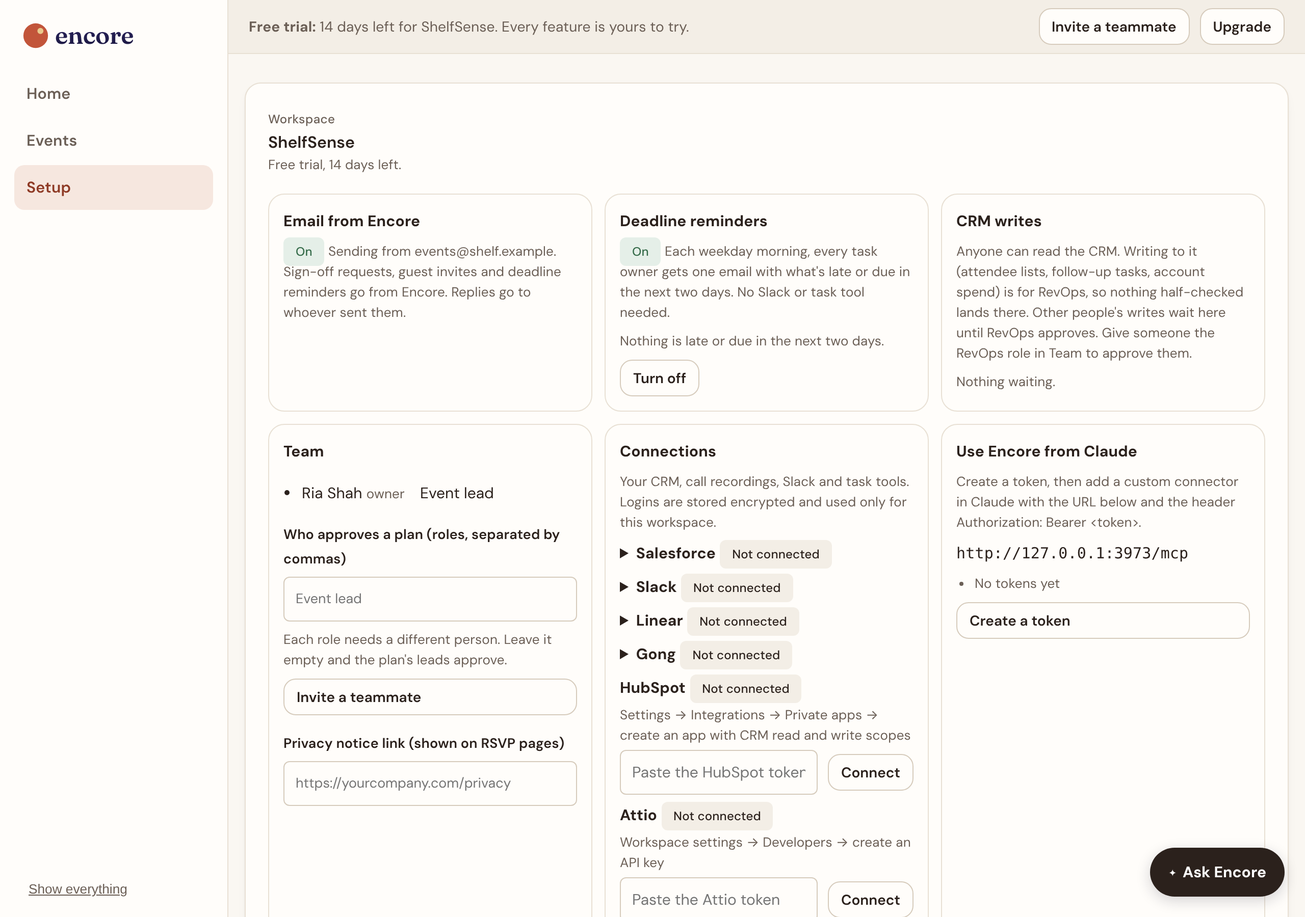
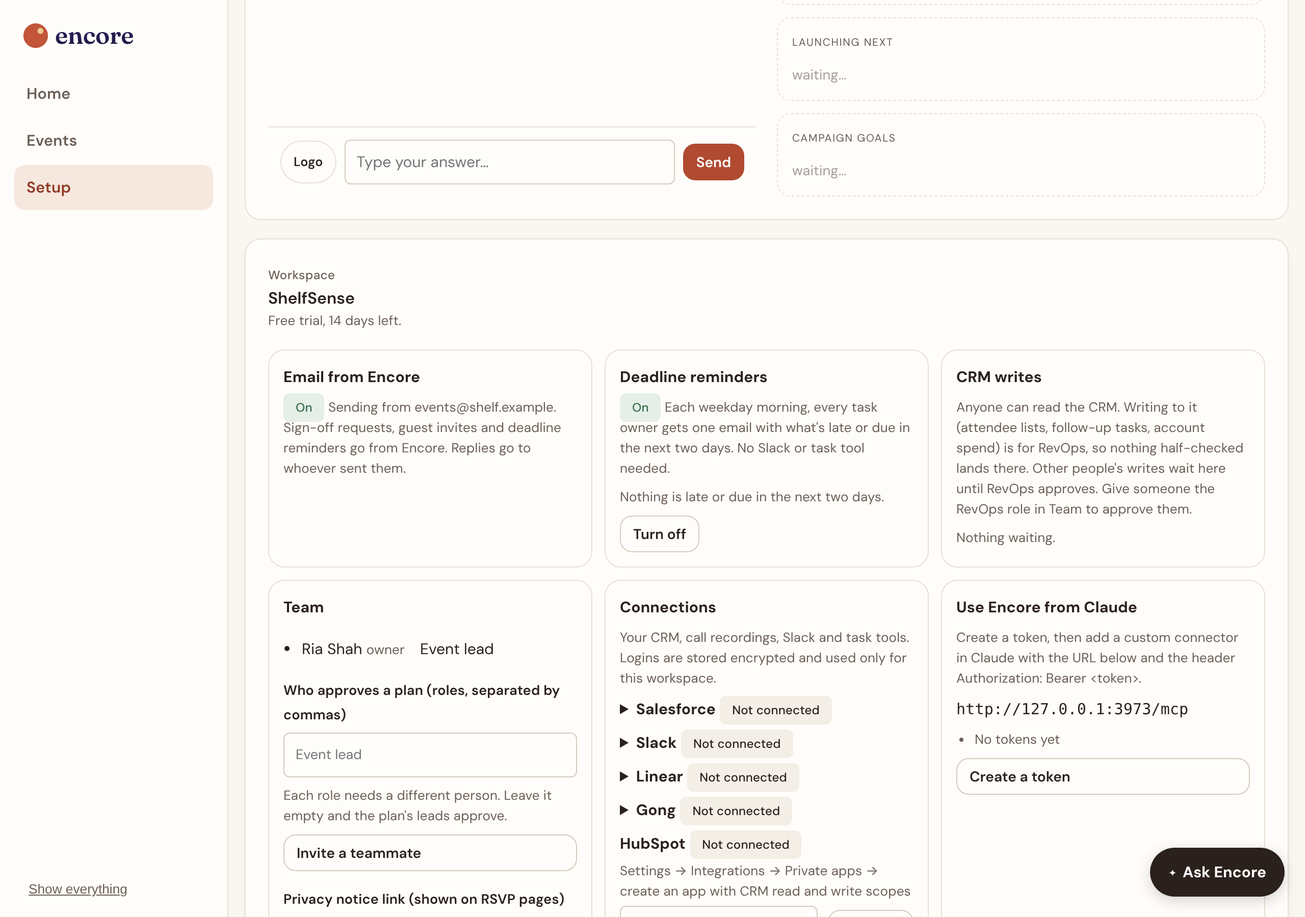
Brand kit setup, Ploy-style playbooks, smarter one-line drafts
- Setup opens on a brand kit that needs no AI: company, website, logo,
  primary and accent colors (picker, hex, swatches from the logo), heading
  and body fonts (Google Fonts list or an uploaded .woff2/.ttf/.otf),
  brand guidelines (colors read from images; fonts and voice via Claude
  when AI is on), voice line, and a live invitation preview. Changes save
  as you go and reach RSVP pages, covers and the guest pages. The research
  chat is optional below it.
- Plays show their playbook: author, numbered phases, outputs, draft time
  and lead time, drafts-only promise. Deploy starts with 'Scope the run'
  (goal, city, date, seats, budget, who it's for, connector check), then
  shows a run view of the phases.
- One-line drafts: hack nights, meetups and workshops are experiences;
  'London, Berlin and Paris' keeps all cities and budgets every stop;
  cities found without 'in'; ProMat and MODEX known.
- One logo mark everywhere; Sign in on the phone landing page.

Claude-Session: https://claude.ai/code/session_01HDoUzSUsndZYn81GYAsjC3

diff --git a/index.html b/index.html
@@ -1157,6 +1157,29 @@ main.wrap{padding-bottom:104px}
   .h2cta{padding-bottom:4px}.h2cta .btn.primary{justify-content:center;text-align:center;box-shadow:0 -24px 24px -4px var(--bg)!important}
   body{padding-bottom:calc(140px + env(safe-area-inset-bottom,0px))}
 }
+
+.bkit{padding:24px}.bkgrid{display:grid;grid-template-columns:minmax(0,1.3fr) minmax(0,1fr);gap:28px;align-items:start}
+.bkrow{display:flex;flex-wrap:wrap;gap:10px;align-items:center}.bklabel{font-weight:600;min-width:120px}
+.bklogo{height:40px;max-width:160px;object-fit:contain;border:1px solid var(--line);border-radius:8px;padding:4px;background:#fff}
+.bkcol{display:flex;gap:6px;align-items:center;font-size:13px}.bkcol input[type=color]{width:36px;height:36px;border:1px solid var(--line);border-radius:10px;padding:2px;background:#fff}
+.bksw{display:flex;gap:6px}.sw{width:26px;height:26px;border-radius:50%;border:2px solid #fff;box-shadow:0 0 0 1px var(--line);cursor:pointer}
+.bkprev{position:sticky;top:16px;display:flex;flex-direction:column;gap:8px}
+.bkcover{background:var(--p);color:#fff;border-radius:18px 18px 0 0;padding:22px;display:flex;flex-direction:column;gap:6px;min-height:150px}
+.bkcover img{height:28px;max-width:120px;object-fit:contain;align-self:flex-start;background:#fff;border-radius:6px;padding:3px}
+.bkcover small,.bkcover p,.bkbtn{font-family:var(--bf),sans-serif!important}.bkcover small{opacity:.85}.bkcover h3{font-family:var(--hf),Georgia,serif!important;font-size:26px;line-height:1.15;margin:4px 0 0;color:#fff}.bkcover p{margin:0;opacity:.9;font-family:var(--bf),sans-serif;font-size:14px}
+.bkmono{width:28px;height:28px;border-radius:8px;background:rgba(255,255,255,.2);display:grid;place-items:center;font-weight:700}
+.bkbody,.bkbody p{font-family:var(--bf),sans-serif!important}.bkbody{background:var(--surface);border:1px solid var(--line);border-top:0;border-radius:0 0 18px 18px;padding:18px;display:flex;flex-direction:column;gap:12px}.bkbody p{margin:0}
+.bkbtn{align-self:flex-start;background:var(--a);color:#fff;border-radius:999px;padding:9px 18px;font-weight:600;font-family:var(--bf),sans-serif}
+#onbWrap>summary{cursor:pointer;padding:4px 0}#onbWrap .onb{margin-top:14px}
+.gx,.invite{font-family:var(--bbody,inherit)}
+@media (max-width:900px){.bkgrid{grid-template-columns:1fr}.bkprev{position:static}}
+
+.pbook{border-top:1px solid var(--line);padding-top:10px;margin-top:4px}.pbook summary{cursor:pointer}
+.pbphases{margin:0;padding-left:20px;display:flex;flex-direction:column;gap:6px}.pbphases li b{display:block;font-size:14px}
+.scope .row{gap:10px}.sccheck{display:flex;flex-wrap:wrap;gap:6px;align-items:center}
+.runview{list-style:none;margin:0;padding:0;display:grid;grid-template-columns:repeat(auto-fit,minmax(140px,1fr));gap:8px}
+.runview li{border:1px solid var(--line);border-radius:12px;padding:10px;display:flex;flex-direction:column;gap:2px;background:var(--bg)}
+.runview .dot{width:10px;height:10px;border-radius:50%;background:var(--line-strong)}.runview li.done .dot{background:#2F5D34}.runview li.now{border-color:var(--accent)}.runview li.now .dot{background:var(--accent)}
 </style>
 
 <header class="top" id="appHeader"><div class="wrap">
@@ -2338,16 +2361,38 @@ Keep it short. Reply with only JSON: {"name":"max 4 words","format":"one of ${FO
   drawDeck(); burst();
 }
 function kindFromFormat(f){ f=String(f||"").toLowerCase(); return /booth|third-party|trade ?show|conference/.test(f)&&!/owned|user conf/.test(f)?"conference":/owned|user conf/.test(f)?"owned":/summit|forum|advisory|board|council/.test(f)?"summit":/webinar|live session|virtual|online/.test(f)?"webinar":/roadshow|tour|cities/.test(f)?"roadshow":/launch/.test(f)?"launch":/dinner|breakfast|lunch|supper|table/.test(f)?"dinner":"experience" }
+const PB={
+  dinner:{author:"Encore field team, from 40+ executive dinners",lead:"6 weeks lead time",run:"About a minute to draft",phases:[["Scope the run","goal, accounts, city, date window, budget"],["Pick the room","venue shortlist and a seated run of show"],["Fill the table","AE nominations, personal invites, RSVP page"],["Host the night","seating, host briefs, check-in"],["Follow up in 24 hours","a note per guest for each AE to approve"],["Prove it","90-day pipeline report against your plan"]],outputs:["Line-by-line budget","12 dated tasks with owners","Invite list and personal invites","RSVP page in your brand","Seating and host briefs","Pipeline report"]},
+  conference:{author:"Encore field team, from booth and side-event programs",lead:"9 to 12 months for the booth, 8 to 10 weeks for the dinner",run:"About two minutes to draft",phases:[["Scope the run","show, goals, accounts, staff, budget"],["Book the booth","space, freight, passes, hotel block"],["Pre-book meetings","target accounts and AE outreach"],["Run the side dinner","its own list, RSVP page and seating"],["Work the floor","staffing rota, demo script, badge scans"],["Follow up and prove it","leads routed to AEs; 90-day pipeline"]],outputs:["Booth and travel budget","Staffing rota and agendas","Pre-booked meeting list","Side-dinner plan","Lead routing","Pipeline report"]},
+  summit:{author:"Encore field team, from customer advisory boards",lead:"10 weeks lead time",run:"About two minutes to draft",phases:[["Scope the run","who sits on the board, agenda goals, budget"],["Build the agenda","sessions, speakers and roadmap moments"],["Invite and confirm","personal invites and travel"],["Run the day","run of show, seating and notes"],["Close the loop","what you heard, and what you'll do"]],outputs:["Agenda and run of show","Travel and venue budget","Invitations","Session notes template","Renewal and expansion follow-ups"]},
+  webinar:{author:"Encore field team",lead:"4 weeks lead time",run:"About a minute to draft",phases:[["Scope the run","topic, speakers, audience"],["Write the page","title, abstract, registration questions"],["Promote it","emails, posts, partner shares"],["Run the session","run of show and live Q&A plan"],["Follow up","recording, clips, sales hand-off"]],outputs:["Event page copy","Promotion plan","Run of show","Follow-up emails","Clips list"]},
+  roadshow:{author:"Encore field team",lead:"8 weeks lead time",run:"About two minutes to draft",phases:[["Scope the run","cities, accounts per city, budget"],["One master plan","shared copy, run of show and budget"],["A plan per city","venue, list and RSVP page each"],["Run each stop","check-in and notes"],["Compare cities","pipeline per city, what to repeat"]],outputs:["Master plan","A child event per city","City-by-city budget","Results by city"]}};
+function playbookHTML(k){ const P=PB[k]||PB.dinner; return `<details class="pbook"><summary><b>The playbook</b> <span class="note">${P.phases.length} phases · ${esc(P.run)} · ${esc(P.lead)}</span></summary>
+  <p class="note" style="margin:6px 0 8px">By ${esc(P.author)}. Drafts only: nothing goes to a guest, an AE or your CRM until you approve it.</p>
+  <ol class="pbphases">${P.phases.map(([t,d])=>`<li><b>${esc(t)}</b><span class="note">${esc(d)}</span></li>`).join("")}</ol>
+  <p class="note" style="margin:8px 0 4px"><b>You get</b></p><div class="chips">${P.outputs.map(o=>`<span class="pchip">${esc(o)}</span>`).join("")}</div></details>` }
+function scopeRun(i,btn){ const k=kindFromFormat((i.format||"")+" "+(i.name||"")), P=PB[k]||PB.dinner, m=document.createElement("div"); m.className="modal-back"; document.body.appendChild(m);
+  const d0=new Date(Date.now()+42*864e5).toISOString().slice(0,10);
+  m.innerHTML=`<div class="panel stack scope" role="dialog" aria-modal="true" aria-label="Scope the run" style="max-width:620px;margin:6vh auto"><div><small class="eyebrow">Step 1 of the playbook</small><h3 style="margin-top:2px">Scope the run: ${esc(i.name)}</h3><p class="note">Encore drafts ${P.outputs.slice(0,3).join(", ").toLowerCase()} and more from this. Drafts only; you approve anything that goes out.</p></div>
+    <div class="row"><label class="f">Goal<input id="scGoal" value="${esc(i.goal||"")}" placeholder="e.g. 8 qualified meetings with tier A accounts"></label></div>
+    <div class="row"><label class="f">City<input id="scCity" value="${esc(i.city||draft.city||"")}" placeholder="New York"></label><label class="f">Date<input id="scDate" type="date" value="${esc(i.date||d0)}"></label><label class="f">Seats<input id="scSeats" type="number" min="4" value="${TPL_SEATS[k]||20}"></label><label class="f">Budget<input id="scBud" type="number" min="0" step="500" placeholder="Encore estimates it"></label></div>
+    <label class="f">Who it's for<input id="scWho" value="${esc((i.roles||[]).join(", "))}" placeholder="CFOs at tier A accounts"></label>
+    <div class="sccheck">${[["Email from Encore",EMAIL.enabled],["CRM connected",!!crmOn?.()],["Company profile",!!brandProfile?.company]].map(([l,on])=>`<span class="pchip ${on?"good":""}">${on?"✓":"○"} ${l}</span>`).join("")}<span class="note">Not required to start; Encore drafts either way.</span></div>
+    <div class="btns"><button class="btn primary" id="scGo" type="button">Deploy the playbook</button><button class="btn ghost" id="scX" type="button">Cancel</button></div></div>`;
+  const close=()=>m.remove(); $("#scX",m).onclick=close; m.onclick=e=>{ if(e.target===m) close() };
+  $("#scGo",m).onclick=()=>{ const who=$("#scWho",m).value.split(",").map(x=>x.trim()).filter(Boolean); const x={...i,goal:$("#scGoal",m).value.trim(),city:$("#scCity",m).value.trim(),date:$("#scDate",m).value,headcount:+$("#scSeats",m).value||undefined,budget:+$("#scBud",m).value||0,roles:who.length?who:i.roles}; close(); deployPlay(x,btn) };
+  setTimeout(()=>$("#scGoal",m)?.focus(),30) }
 function deployPlay(i,btn){ if(btn){ btn.disabled=true; btn.textContent="Setting it up…" }
   const k=kindFromFormat((i.format||"")+" "+(i.name||"")), d=hydrate(brandDraft({kind:k,name:i.name,concept:i.concept||"",format:KINDS[k].label,goal:i.goal||""})); d.example=false; d.kind=k; d.name=i.name; d.concept=i.concept||i.name; d.format=KINDS[k].label;
   if(i.roles?.length) d.audience.roles=i.roles; if(i.intel) d.intel=i.intel; d.headcount=i.headcount||TPL_SEATS[k]||20; if(i.city) d.city=i.city; if(i.date) d.date=i.date;
   const BM=budgetModel(d); d.budget=+i.budget||Math.round(BM.total/500)*500; d.produce=starterProduce(d); d.produce.budget=BM.rows.map(r=>({line:r.line,amount:r.amt,note:r.formula})); d.modelEstimate=BM.total;
-  d.cover.headline=d.name; logDecision(d,`deployed "${d.name}" from the plan`);
+  d.cover.headline=d.name; if(i.goal) d.goal=i.goal; logDecision(d,`deployed the "${d.name}" playbook`);
   draft=d; step=1; $("#autoHost").hidden=true; if(location.hash!=="#studio") location.hash="#studio"; renderStep(); window.scrollTo({top:0,behavior:"smooth"});
   if(db) setTimeout(()=>saveEvent(true),50);
   if(sample){ setTimeout(()=>{ autopilot(); setTimeout(()=>$("#autoHost")?.scrollIntoView({behavior:"smooth",block:"start"}),120) },250); return }
   const P=d.produce, host=$("#autoHost"), go=(n)=>()=>{ step=n; renderStep(); window.scrollTo({top:0,behavior:"smooth"}) };
-  host.hidden=false; host.innerHTML=`<section class="deployed" aria-live="polite"><div class="btns" style="justify-content:space-between;align-items:flex-start"><div><small class="eyebrow">Deployed</small><h3 style="margin-top:2px">"${esc(d.name)}" is set up as a new event</h3><p class="note">Here's what Encore drafted. Change anything; it's yours.</p></div><button class="btn ghost sm" id="depHide" type="button">Hide</button></div>
+  host.hidden=false; host.innerHTML=`<section class="deployed" aria-live="polite"><div class="btns" style="justify-content:space-between;align-items:flex-start"><div><small class="eyebrow">Deployed</small><h3 style="margin-top:2px">"${esc(d.name)}" is set up as a new event</h3><p class="note">Here's what Encore drafted. Change anything; it's yours. Drafts only: nothing goes out until you approve it.</p></div><button class="btn ghost sm" id="depHide" type="button">Hide</button></div>
+    <ol class="runview">${(PB[k]||PB.dinner).phases.map(([t,dd],ix)=>`<li class="${ix===0?"done":ix===1?"now":""}"><span class="dot"></span><b>${esc(t)}</b><span class="note">${ix===0?"Done":ix===1?"Next":esc(dd)}</span></li>`).join("")}</ol>
     <ol class="deplist">${[[`${/^[aeiou]/i.test(KINDS[k].label)?"An":"A"} ${KINDS[k].label.toLowerCase()} for ${d.headcount} guests`,`Format, size and goal set from the play.`,1,"Review the plan"],[`Budget: ${cmoney(eventCost(d),d.currency)} in ${P.budget.length} lines`,`Each line shows how it was estimated.`,5,"See the budget"],[`${(P.tasks||[]).length} tasks with owners and dates`,`Counted back from the event date.`,5,"See the tasks"],[`Run of show, ${(P.runOfShow||[]).length} moments`,`Minute by minute, with cues.`,5,"See the run of show"]].map(([t,n,st,cta],ix)=>`<li style="animation-delay:${ix*120}ms"><span class="tick">✓</span><span style="flex:1;min-width:0"><b>${esc(t)}</b><br><span class="note">${esc(n)}</span></span><button class="linkbtn" data-depgo="${st}" type="button">${cta}</button></li>`).join("")}</ol>
     <div class="btns"><button class="btn primary" id="depNext" type="button">Next: add your guests</button>${d.date?"":`<button class="btn" id="depDate" type="button">Set the date</button>`}</div></section>`;
   $("#depHide",host).onclick=()=>host.hidden=true; $$("[data-depgo]",host).forEach(b=>b.onclick=go(+b.dataset.depgo)); $("#depNext",host).onclick=go(6); $("#depDate",host)&&($("#depDate",host).onclick=()=>$("#factsEdit")?.click());
@@ -2633,7 +2678,8 @@ function strategyHTML(S){
       <div class="btns" style="justify-content:space-between"><span class="tag">${esc(p.format)}</span><span class="score" title="Confidence">${esc(p.confidence)}/10</span></div>
       <h3>${esc(p.name)}</h3><p>${esc(p.concept)}</p>
       <div class="kv"><small>For</small><span>${esc(p.forPersona)}</span><small>When</small><span>${esc(p.whenInGTM)}</span><small>Why</small><span>${esc(p.why)}</span><small>Proof</small><span class="note">${esc(p.evidence)}</span><small>Success</small><span><b>${esc(p.kpi)}</b></span></div>
-      <div class="btns"><button class="btn primary sm" data-deploy="${i}">Deploy</button><button class="btn ghost sm" data-ask="Why ${esc(p.name)} and not something else?">Why this?</button></div></div></article>`).join("")}</div></section>
+      ${playbookHTML(kindFromFormat((p.format||"")+" "+(p.name||"")))}
+      <div class="btns"><button class="btn primary sm" data-deploy="${i}">Deploy this playbook</button><button class="btn ghost sm" data-ask="Why ${esc(p.name)} and not something else?">Why this?</button></div></div></article>`).join("")}</div></section>
   ${S.notFit?.length?`<section><small class="eyebrow">What we'd skip</small><div class="skips">${S.notFit.map(n=>`<div class="skip"><b>${esc(n.idea)}</b><span class="note">${esc(n.why)}</span></div>`).join("")}</div></section>`:""}
   <div class="two">
     <section class="panel stack"><div><h3>Pressure-test it</h3><p class="note">What a skeptical CMO or CFO would ask, and our answer.</p></div>
@@ -2654,7 +2700,7 @@ function wireStrategy(host,S){
   $$("canvas[data-part]",host).forEach(c=>{ const i=+c.dataset.part; drawCover(c,{...draft,name:S.plays[i].name,cover:{motif:SUITS[(i*2+1)%SUITS.length]}},{mini:true}) });
   $$("[data-deploy]",host).forEach(b=>b.onclick=()=>{ const p=S.plays[+b.dataset.deploy];
     const per=(brandProfile?.audience?.personas||[]).find(x=>x.title===p.forPersona);
-    deployPlay({name:p.name,concept:p.concept,format:p.format,roles:per?[per.title]:p.forPersona?[p.forPersona]:null,intel:per?{...per,name:per.title}:null},b) });
+    scopeRun({name:p.name,concept:p.concept,format:p.format,roles:per?[per.title]:p.forPersona?[p.forPersona]:null,intel:per?{...per,name:per.title}:null,goal:p.kpi||""},b) });
   $$("[data-ask]",host).forEach(b=>b.onclick=()=>challenge(b.dataset.ask));
   const f=$("#chalForm",host); f&&(f.onsubmit=e=>{ e.preventDefault(); const v=$("#chalIn").value.trim(); if(v){ $("#chalIn").value=""; challenge(v) } });
   $("#cpTalk",host)&&($("#cpTalk",host).onclick=()=>copyTxt((S.talkingPoints||[]).map((t,i)=>`${i+1}. ${t}`).join("\n")));
@@ -3086,19 +3132,25 @@ function journeySteps(){ const real=allEvents.filter(e=>!e.example).map(hydrate)
     {k:"measure",t:"Follow up and measure",why:"Follow up within 24 hours, sync to your CRM and see the pipeline it created.",min:"30 min",done:mine&&d.status==="done"}] }
 function journeyGo(k){ if(k==="brand") return location.hash="brand"; if(k==="idea") return location.hash="inspire";
   if(draft.example){ const mine=allEvents.filter(e=>!e.example).sort((a,b)=>(b.updatedAt||b.createdAt||0)-(a.updatedAt||a.createdAt||0))[0]; draft=mine?hydrate(mine):brandDraft() } step={plan:1,signoff:8,invite:6,run:6,measure:7}[k]||1; location.hash="studio"; renderStep() }
-const CONF_CAL=[["HIMSS","Las Vegas",3,"flagship"],["ViVE","Los Angeles",2,"major"],["NRF","New York",1,"flagship"],["Shoptalk","Las Vegas",3,"major"],["RSA","San Francisco",4,"flagship"],["Black Hat","Las Vegas",8,"flagship"],["Money20/20 Europe","Amsterdam",6,"major"],["Money20/20","Las Vegas",10,"flagship"],["KubeCon Europe","Europe (varies)",3,"flagship"],["KubeCon","North America (varies)",11,"flagship"],["re:Invent","Las Vegas",12,"flagship"],["Dreamforce","San Francisco",9,"flagship"],["SaaStr","San Mateo",5,"major"],["HR Tech","Las Vegas",9,"major"],["Hannover Messe","Hannover",4,"flagship"],["BIO International","San Diego",6,"major"],["ITC Vegas","Las Vegas",10,"major"],["InsurTech Connect","Las Vegas",10,"major"],["INBOUND","Boston",9,"major"],["Web Summit","Lisbon",11,"flagship"],["Gartner","Orlando",10,"major"],["Legalweek","New York",3,"major"],["CLOC","Las Vegas",5,"major"],["Collision","Toronto",6,"major"],["SXSW","Austin",3,"major"],["Cannes Lions","Cannes",6,"major"],["AWS Summit","varies",6,"regional"],["Google Cloud Next","Las Vegas",4,"flagship"],["MWC","Barcelona",3,"flagship"],["Gitex","Dubai",10,"flagship"],["VivaTech","Paris",6,"major"],["Slush","Helsinki",11,"major"],["Finovate","New York",9,"regional"],["Sibos","varies",10,"major"]];
+const CONF_CAL=[["ProMat","Chicago",3,"flagship"],["MODEX","Atlanta",3,"major"],["HIMSS","Las Vegas",3,"flagship"],["ViVE","Los Angeles",2,"major"],["NRF","New York",1,"flagship"],["Shoptalk","Las Vegas",3,"major"],["RSA","San Francisco",4,"flagship"],["Black Hat","Las Vegas",8,"flagship"],["Money20/20 Europe","Amsterdam",6,"major"],["Money20/20","Las Vegas",10,"flagship"],["KubeCon Europe","Europe (varies)",3,"flagship"],["KubeCon","North America (varies)",11,"flagship"],["re:Invent","Las Vegas",12,"flagship"],["Dreamforce","San Francisco",9,"flagship"],["SaaStr","San Mateo",5,"major"],["HR Tech","Las Vegas",9,"major"],["Hannover Messe","Hannover",4,"flagship"],["BIO International","San Diego",6,"major"],["ITC Vegas","Las Vegas",10,"major"],["InsurTech Connect","Las Vegas",10,"major"],["INBOUND","Boston",9,"major"],["Web Summit","Lisbon",11,"flagship"],["Gartner","Orlando",10,"major"],["Legalweek","New York",3,"major"],["CLOC","Las Vegas",5,"major"],["Collision","Toronto",6,"major"],["SXSW","Austin",3,"major"],["Cannes Lions","Cannes",6,"major"],["AWS Summit","varies",6,"regional"],["Google Cloud Next","Las Vegas",4,"flagship"],["MWC","Barcelona",3,"flagship"],["Gitex","Dubai",10,"flagship"],["VivaTech","Paris",6,"major"],["Slush","Helsinki",11,"major"],["Finovate","New York",9,"regional"],["Sibos","varies",10,"major"]];
 function confFromText(t){ const lo=String(t||"").toLowerCase(); return CONF_CAL.slice().sort((a,b)=>b[0].length-a[0].length).find(([n])=>lo.includes(n.toLowerCase())) }
 const MONTHS=["jan","feb","mar","apr","may","jun","jul","aug","sep","oct","nov","dec"];
 function parseEventText(t){ const x=String(t||""), lo=x.toLowerCase(), o={};
   const side=/\b(dinner|breakfast|lunch|brunch|happy hour|reception|roundtable|drinks)\b/.test(lo)&&!/\b(booth|stand|sponsor|exhibit)/.test(lo);
-  o.kind=side?(/happy hour|reception|drinks/.test(lo)?"experience":"dinner"):/booth|stand\b|exhibit|expo|trade ?show|conference|messe|summit booth/.test(lo)?"conference":/webinar|live session|virtual|online session/.test(lo)?"webinar":/roadshow|tour|cities/.test(lo)?"roadshow":/advisory board|\bcab\b|summit|forum|user group/.test(lo)?"summit":/launch/.test(lo)?"launch":/happy hour|experience|tasting|class|workshop/.test(lo)?"experience":"dinner";
+  const multi=(x.match(/\b(?:in|across)\s+([A-Z][A-Za-z.]+(?:\s[A-Z][a-z.]+)?(?:\s*,\s*[A-Z][A-Za-z.]+(?:\s[A-Z][a-z.]+)?)*\s*(?:,?\s*and\s+)[A-Z][A-Za-z.]+(?:\s[A-Z][a-z.]+)?)/)||[])[1];
+  if(multi){ const cs=multi.split(/\s*,\s*|\s+and\s+/).map(c=>c.trim()).filter(c=>c&&!MONTHS.includes(c.slice(0,3).toLowerCase())); if(cs.length>1) o.cities=cs }
+  if(/hack ?night|hackathon|meetup|build night|demo night|workshop|office hours|community night/.test(lo)){ o.kind="experience" }
+  else if(o.cities&&o.cities.length>1&&!/booth|conference|expo/.test(lo)) o.kind="roadshow";
+  else o.kind=side?(/happy hour|reception|drinks/.test(lo)?"experience":"dinner"):/booth|stand\b|exhibit|expo|trade ?show|conference|messe|summit booth/.test(lo)?"conference":/webinar|live session|virtual|online session/.test(lo)?"webinar":/roadshow|tour|cities/.test(lo)?"roadshow":/advisory board|\bcab\b|summit|forum|user group/.test(lo)?"summit":/launch/.test(lo)?"launch":/happy hour|experience|tasting|class|workshop/.test(lo)?"experience":"dinner";
   const okN=(m)=>{ const n=+m[1], pre=x.slice(Math.max(0,m.index-12),m.index); return n>=2&&n<=5000&&!(n>=1900&&n<=2100)&&!/(amlaw|fortune|global|top|f|inc\.?|forbes|s&p|ftse|dax|cac)\s*$/i.test(pre) };
   const seat=[...x.matchAll(/(\d{1,4})[-\s]*(?:seat|person|people|guest)s?\b/gi)].find(okN);
   const hcs=[...x.matchAll(/(\d{1,4})\s+(?:[A-Za-z0-9&-]+\s+){0,2}(?:people|guests|seats|execs?|executives|cfos?|cmos?|ctos?|cios?|cisos?|cros?|chros?|cpos?|cmios?|vps?|leaders|customers|attendees|marketers|buyers|founders|partners|directors|heads|scientists|engineers|physicians|doctors|ceos?|gcs?|counsel)\b/gi)].filter(okN);
   const h2=[...x.matchAll(/\b(\d{1,4})\s+(?:[A-Za-z&/-]+\s+){0,3}?([A-Za-z]+(?:s|people|staff))\b/g)].filter(m=>okN(m)&&!/^(minutes|hours|days|weeks|months|years|cities|percent|seconds|s|firms|companies|accounts|banks|carriers|retailers|hospitals|brands)$/i.test(m[2]));
   const pick=seat||hcs[0]||h2[0]; if(pick) o.headcount=+pick[1];
   const bm=x.match(/(?:\$|€|£)\s?[\d.,]+\s?k?|\b\d+(?:\.\d+)?\s?k\b(?!m)/i); if(bm){ const v=parseMoney(bm[0]); if(v>=500) o.budget=v; if(/€/.test(bm[0])) o.currency="EUR"; if(/£/.test(bm[0])) o.currency="GBP" }
-  const cm=x.match(/\bin ([A-Z][A-Za-z.]+(?: [A-Z][A-Za-z.]+){0,2})/); if(cm&&!MONTHS.includes(cm[1].slice(0,3).toLowerCase())) o.city=cm[1]; else if(o.kind==="webinar") o.city="Online";
+  const cm=x.match(/\bin ([A-Z][A-Za-z.]+(?: [A-Z][A-Za-z.]+){0,2})/); if(o.cities) o.city=o.cities[0]; else if(cm&&!MONTHS.includes(cm[1].slice(0,3).toLowerCase())) o.city=cm[1]; else if(o.kind==="webinar") o.city="Online";
+  if(!o.city){ const KC=["New York","San Francisco","Los Angeles","Chicago","Boston","Austin","Seattle","Denver","Atlanta","Dallas","Houston","Miami","Washington","London","Paris","Berlin","Munich","Amsterdam","Dublin","Madrid","Toronto","Singapore","Sydney","Tokyo","Las Vegas","San Diego","Nashville","Philadelphia","Minneapolis","Stockholm","Zurich"]; const k=KC.find(c=>new RegExp("\\b"+c+"\\b","i").test(x)); if(k) o.city=k }
+  o.label=(lo.match(/hack ?night|hackathon|meetup|build night|demo night|workshop|office hours|community night/)||[])[0]||"";
   const mm=lo.match(/\b(jan(?:uary)?|feb(?:ruary)?|mar(?:ch)?|apr(?:il)?|may|june?|july?|aug(?:ust)?|sep(?:t(?:ember)?)?|oct(?:ober)?|nov(?:ember)?|dec(?:ember)?)\b\.?(?:\s+(\d{1,2})(?:st|nd|rd|th)?\b)?/); if(mm) mm[1]=mm[1].slice(0,3); if(mm){ const now=new Date(), mi=MONTHS.indexOf(mm[1]); const dd=+(mm[2]||0); let y=now.getFullYear(); if(new Date(y,mi,dd||28,23,59)<now) y++; if(dd) o.date=`${y}-${String(mi+1).padStart(2,"0")}-${String(dd).padStart(2,"0")}`; else o.month=`${y}-${String(mi+1).padStart(2,"0")}` }
   const who=x.match(/(?:for|with)\s+(?:\d+\s+)?([A-Za-z ,&/-]*?(?:CFOs?|CMOs?|CTOs?|CIOs?|CISOs?|CHROs?|CMIOs?|VPs?[A-Za-z &]*?|heads? of [A-Za-z&]+(?: [A-Za-z&]+)*?|directors?[A-Za-z &]*|leaders|marketers|buyers|customers|scientists|engineers|partners))(?=\s+(?:in|at|on|during|near|around|about|for)\b|[,.]|$)/i); if(who) o.roles=[who[1].trim()];
   const cf=confFromText(x); if(cf){ o.conf=cf[0]; if(!o.city&&!/varies/.test(cf[1])) o.city=cf[1]; if(!mm){ const now=new Date(); let y=now.getFullYear(); if(new Date(y,cf[2]-1,12)<now) y++; o.month=`${y}-${String(cf[2]).padStart(2,"0")}` } o.showSize=cf[3]; o.confWeek=true }
@@ -3107,11 +3159,14 @@ function parseEventText(t){ const x=String(t||""), lo=x.toLowerCase(), o={};
 function quickStart(text){ const o=parseEventText(text), d=hydrate(brandDraft({kind:o.kind})); d.example=false; d.compliance=window.__qsComp||(/\b(physician|doctor|cmio|cmo of|hcp|clinician|nurse|pharmacist|oncologist|cardiologist|kol)\b/i.test(text)?"hcp":""); window.__qsComp=""; const clean=text.trim().replace(/,?\s*(?:for\s+)?(?:about|around|roughly|~|budget(?: of)?|up to)?\s*(?:\$|€|£)\s?[\d.,]+\s?k?\b|,?\s*(?:about|around|roughly|~)?\s*\b\d+(?:\.\d+)?\s?k\b(?:\s*budget)?/gi,"").replace(/\s{2,}/g," ").replace(/[,\s]+$/,""); d.concept=clean;
   const nm=clean.replace(/^(an?|we('| a)re (hosting|running|doing)|host(ing)?|plan(ning)?)\s+/i,""); d.name=(nm.length>60?nm.slice(0,60).replace(/\s+\S*$/,""):nm).replace(/(\s+(on|in|at|for|with|and|the|a|of|during))+$/i,"").replace(/^./,c=>c.toUpperCase());
   if(d.name.length>34){ const who=((o.roles||[])[0]||"").replace(/^([A-Z]{2,4})s\b/,"$1").replace(/^VPs\b/,"VP")||(o.kind==="conference"&&o.conf?o.conf:""), what={dinner:"dinner",conference:o.conf?"booth":"conference",roadshow:"roadshow",summit:"summit",webinar:"live session",owned:"conference",launch:"launch",experience:"experience"}[o.kind]||"event"; d.name=(o.kind==="conference"&&o.conf?`${o.conf} booth`:who?`${who} ${what}`:`${KINDS[o.kind].label}`).replace(/^./,c=>c.toUpperCase())+(o.city&&!/online/i.test(o.city)?` · ${o.city}`:"") }
+  if(o.cities?.length>1){ d.cities=o.cities; d.name=`Roadshow · ${o.cities.join(", ")}`; }
+  else if(o.label){ d.name=o.label.replace(/^hack ?night$/i,"Hack night").replace(/^./,c=>c.toUpperCase())+(o.city?` · ${o.city}`:""); d.format=o.label }
   d.headcount=o.headcount||TPL_SEATS[o.kind]||20; if(o.budget) d.budget=o.budget; if(o.currency) d.currency=o.currency; if(o.city) d.city=o.city; if(o.date) d.date=o.date; else if(o.month) d.dateHint=o.month; if(o.roles) d.audience.roles=o.roles;
   if(o.conf){ d.confName=o.conf; d.confWeek=!/online/i.test(d.city||""); if(kindOf(d)==="conference"&&SHOW_SIZE[o.showSize]){ d.showSize=o.showSize; d.budgetInputs={...(d.budgetInputs||{}),...SHOW_SIZE[o.showSize].x} } if(!d.date) d.dateHint=o.month }
   const BM=budgetModel(d); if(!o.budget) d.budget=Math.round(BM.total/500)*500; d.produce=starterProduce(d); d.produce.budget=BM.rows.map(r=>({line:r.line,amount:r.amt,note:r.formula}));  d.modelEstimate=BM.total;
   d.format=KINDS[o.kind].label; draft=d; step=1; logDecision(d,"started from a one-line description"); if(db) setTimeout(()=>saveEvent(true).then(ok=>{ if(ok){ const l=$("#draftLabel"); if(l) l.textContent="Saved" } }),50); location.hash="#studio";
-  toast(o.budget?`Plan drafted. Estimate ${cmoney(BM.total,d.currency)} of your ${cmoney(o.budget,d.currency)}.`:`Plan drafted. Estimated at ${cmoney(eventCost(d),d.currency)}.`);
+  if(d.cities?.length>1&&d.produce?.budget){ const n=d.cities.length; d.produce.budget=d.produce.budget.map(b=>({...b,amount:Math.round((+b.amount||0)*n/50)*50,note:`${b.note?b.note+" · ":""}× ${n} cities`})); }
+  toast(d.cities?.length>1?`Roadshow drafted for ${d.cities.length} cities, ${cmoney(eventCost(d),d.currency)} in total. Make it a series to give each city its own list and venue.`:o.budget?`Plan drafted. Estimate ${cmoney(BM.total,d.currency)} of your ${cmoney(o.budget,d.currency)}.`:`Plan drafted. Estimated at ${cmoney(eventCost(d),d.currency)}.`);
   if(o.budget&&o.budget<BM.total-100) setTimeout(()=>toast(`A note: Encore's estimate (${cmoney(BM.total,d.currency)}) is above your ${cmoney(o.budget,d.currency)} budget. See "How this budget was estimated" in Produce.`),3500);
   if(d.date&&(new Date(d.date)-Date.now())<21*864e5) setTimeout(()=>toast(`That date is only ${Math.max(0,Math.ceil((new Date(d.date)-Date.now())/864e5))} days away. You can change it in Edit details.`),3000);
   if(o.audience){ d.audienceSize=o.audience; setTimeout(()=>toast(`${o.audience} is recorded as the audience you want to reach at the show. The side dinner is set to ${d.headcount} seats; change it in Edit details.`),5000) }
@@ -4963,7 +5018,7 @@ function drawCover(cv,d,{square=false,mini=false,motif}={}){
   x.restore(); x.globalAlpha=1;
   if(mini) return;
   const head=(d.cover?.headline||d.name||"Your event").trim(), pad=W*.06, fs=square?W*.1:H*.11;
-  x.textBaseline="top"; x.font=`800 ${fs}px "Plus Jakarta Sans", Inter, sans-serif`;
+  x.textBaseline="top"; x.font=`700 ${fs}px ${brandFont()?`"${brandFont()}", `:""}"Fraunces", Georgia, serif`;
   const maxW=square?W-pad*2:W*.55, lines=[]; let cur="";
   head.split(/\s+/).forEach(w=>{ const t=cur?cur+" "+w:w; if(x.measureText(t).width>maxW&&cur){lines.push(cur);cur=w}else cur=t }); lines.push(cur);
   const L=lines.slice(0,4), top=square?H-pad-L.length*fs*1.05:pad*1.6;
@@ -5012,17 +5067,17 @@ async function drawWorkspace(){ const h=$("#wsPanel"); if(!h||!window.ENCORE_SER
 function renderBrand(){
   const el=$("#view-brand"); if(!el) return;
   setTimeout(()=>drawWorkspace(),50);
-  el.innerHTML=`<div class="panel stack" id="wsPanel" hidden style="margin-bottom:18px"></div><div class="onb">
+  el.innerHTML=`<section class="panel bkit" id="bkit" aria-label="Brand kit"></section><details class="panel" id="onbWrap" ${brandProfile?.company?"":"open"}><summary><b>Let Encore research your company</b> <span class="note">Optional. Paste your website and it fills in who you sell to and where events fit.</span></summary><div class="onb">
     <section class="chatbox" aria-label="Onboarding chat">
-      <div class="chathead"><span class="logo"><svg viewBox="0 0 44 32" width="34" height="25" aria-hidden="true"><circle cx="12" cy="18" r="11" fill="#FF4F64"/><circle cx="30" cy="13" r="12" fill="#3B5BFF"/><circle cx="24" cy="24" r="7.5" fill="#FFC93C"/><ellipse cx="8.5" cy="13.5" rx="3.2" ry="2" fill="#fff" opacity=".7"/><ellipse cx="26" cy="7.5" rx="3.6" ry="2.2" fill="#fff" opacity=".7"/></svg></span><div><b>Encore</b><span class="note">Event planning</span></div></div>
+      <div class="chathead"><span class="logo"><svg viewBox="0 0 32 32" width="28" height="28" aria-hidden="true"><circle cx="16" cy="16" r="14" fill="#B04A30"/><circle cx="20" cy="11" r="3.2" fill="#F3D9B8"/></svg></span><div><b>Encore</b><span class="note">Event planning</span></div></div>
       <div class="msgs" id="msgs" aria-live="polite"></div>
       <div class="quick" id="quick"></div>
       <form class="composer" id="composer"><label class="iconbtn" title="Add your logo">Logo<input type="file" id="b-logo" accept="image/*" hidden></label>
         <input id="chatIn" autocomplete="off" placeholder="Type your answer…" aria-label="Your answer"><button class="btn primary sm" type="submit">Send</button></form>
     </section>
     <section class="board" id="board" aria-label="Your brand board"></section>
-  </div><section class="panel stack" id="kHost" aria-label="Where your knowledge lives"></section>`;
-  drawMsgs(); drawBoard(); drawKnowledge(); probeSources().then(drawKnowledge);
+  </div></details><div class="panel stack" id="wsPanel" hidden style="margin-top:18px"></div><section class="panel stack" id="kHost" aria-label="Where your knowledge lives"></section>`;
+  drawMsgs(); drawBoard(); drawKnowledge(); probeSources().then(drawKnowledge); drawBrandKit();
   $("#composer").onsubmit=e=>{ e.preventDefault(); const v=$("#chatIn").value.trim(); if(v){ $("#chatIn").value=""; sendChat(v) } };
   $("#b-logo").onchange=e=>{ const f=e.target.files?.[0]; if(f){ readLogo(f); chat.push({role:"user",content:"(added our logo)"}); chat.push({role:"assistant",content:"Got your logo. I pulled your colors from it; tap a swatch on the board to change primary and accent."}); drawMsgs() } };
 }
@@ -5176,12 +5231,49 @@ function brandDraft(over={}){ const B=brandProfile; const d=blankDraft(over);
 async function planFirst(){ await saveBrand(true); draft=brandDraft(); step=1; location.hash="studio"; toast("Your first event is set up. Press Imagine experiences.") }
 function inkOn(hex){ const m=/^#?([0-9a-f]{6})$/i.exec(hex||""); if(!m) return "#fff"; const n=parseInt(m[1],16), L=(0.299*(n>>16)+0.587*(n>>8&255)+0.114*(n&255))/255; return L>.6?"#1B1740":"#fff" }
 const loadedFonts=new Set();
-function brandFont(){ const f=(brandProfile?.fonts||[]).find(x=>x&&!/^(inter|arial|helvetica|system|sans-serif|serif|-apple)/i.test(x)); if(!f) return null;
+function brandFont(){ if(brandProfile?.fontFiles?.heading){ registerFontFile(brandProfile.fontFiles.heading); return brandProfile.fontFiles.heading.name } const f=(brandProfile?.fonts||[]).find(x=>x&&!/^(arial|helvetica|system|sans-serif|serif|-apple)/i.test(x)); if(!f) return null;
   if(!loadedFonts.has(f)){ loadedFonts.add(f); const l=document.createElement("link"); l.rel="stylesheet"; l.href=`https://fonts.googleapis.com/css2?family=${encodeURIComponent(f).replace(/%20/g,"+")}:wght@400;700&display=swap`; document.head.append(l) }
   return f }
 let logoImg=null;
 function syncLogo(){ const src=brandProfile?.logo; if(!src){ logoImg=null; return } if(logoImg?.src===src) return; logoImg=new Image(); logoImg.onload=()=>{ if(!isGuestRoute()) renderStep() }; logoImg.src=src }
-function brandStyle(){ const c=brandProfile?.colors||[]; const a=c[0]||"#3B5BFF", b=c[1]||"#FFC93C"; const f=brandFont(); return `--b1:${a};--b2:${b};--b1ink:${inkOn(a)};--b2ink:${inkOn(b)};${f?`--bfont:'${f}',var(--f-display);`:""}` }
+function brandStyle(){ const c=brandProfile?.colors||[]; const a=c[0]||"#3B5BFF", b=c[1]||"#FFC93C"; const f=brandFont(); const g=bodyFont(); return `--b1:${a};--b2:${b};--b1ink:${inkOn(a)};--b2ink:${inkOn(b)};${f?`--bfont:'${f}',var(--f-display);`:""}${g?`--bbody:'${g}',var(--f-body,inherit);`:""}` }
+const FONT_CHOICES=["Fraunces","Playfair Display","Lora","Libre Baskerville","Source Serif 4","Merriweather","DM Sans","Inter","Manrope","Montserrat","Poppins","Work Sans","Space Grotesk","IBM Plex Sans","Raleway"];
+const loadedFaces=new Set();
+function registerFontFile(ff){ if(!ff?.data||loadedFaces.has(ff.name)) return; try{ const face=new FontFace(ff.name,`url(${ff.data})`); face.load().then(x=>{ document.fonts.add(x); loadedFaces.add(ff.name); $("#bkPrev")&&drawBrandKit(true) }).catch(()=>toast("That font file couldn't be read. Try a .woff2, .woff, .ttf or .otf file.")) }catch{} }
+function bodyFont(){ const B=brandProfile||{}; if(B.fontFiles?.body){ registerFontFile(B.fontFiles.body); return B.fontFiles.body.name } const f=(B.fonts||[])[1]; if(f&&FONT_CHOICES.includes(f)&&!loadedFonts.has(f)){ loadedFonts.add(f); const l=document.createElement("link"); l.rel="stylesheet"; l.href=`https://fonts.googleapis.com/css2?family=${encodeURIComponent(f).replace(/%20/g,"+")}:wght@400;600&display=swap`; document.head.append(l) } return f||null }
+function paletteFrom(file,cb){ const rd=new FileReader(); rd.onload=()=>{ const img=new Image(); img.onload=()=>{ const c=document.createElement("canvas"), k=Math.min(1,320/Math.max(img.width,img.height)); c.width=Math.max(1,img.width*k|0); c.height=Math.max(1,img.height*k|0); const x=c.getContext("2d"); x.drawImage(img,0,0,c.width,c.height);
+    const px=x.getImageData(0,0,c.width,c.height).data, bins={}; for(let i=0;i<px.length;i+=4){ if(px[i+3]<128) continue; const [r,g,b]=[px[i],px[i+1],px[i+2]], mx=Math.max(r,g,b), mn=Math.min(r,g,b); if(mx>242&&mn>235) continue; if(mx<18) continue; const key=(r>>4)+","+(g>>4)+","+(b>>4); bins[key]=(bins[key]||0)+1 }
+    const hex=k=>"#"+k.split(",").map(v=>((+v<<4)+8).toString(16).padStart(2,"0")).join(""), dist=(a,b)=>{const A=a.split(",").map(Number),B=b.split(",").map(Number);return Math.hypot(A[0]-B[0],A[1]-B[1],A[2]-B[2])}, pal=[];
+    Object.entries(bins).sort((a,b)=>b[1]-a[1]).forEach(([k,n])=>{ if(pal.length<8&&n>=4&&pal.every(p=>dist(p,k)>3)) pal.push(k) }); cb(pal.map(hex),rd.result) }; img.src=rd.result }; rd.readAsDataURL(file) }
+let bkSaveT=null; function bkChanged(){ clearTimeout(bkSaveT); bkSaveT=setTimeout(()=>{ if(db) saveBrand(true) },900); drawBrandKit(true) }
+function drawBrandKit(previewOnly){ const h=$("#bkit"); if(!h) return; const B=brandProfile=brandProfile||{}, C=B.colors||["#B04A30","#8A6A2F"], hf=brandFont()||"Fraunces", bf=bodyFont()||"DM Sans";
+  const prev=`<div class="bkprev" id="bkPrev" style="--p:${C[0]};--a:${C[1]||C[0]};--hf:'${hf}';--bf:'${bf}'"><div class="bkcover">${B.logo?`<img src="${esc(B.logo)}" alt="">`:`<span class="bkmono">${esc((B.company||"Your company").slice(0,1))}</span>`}<small>${esc(B.company||"Your company")} invites you</small><h3>An evening with peers</h3><p>Thu, May 12 · 7:00 PM · New York</p></div><div class="bkbody"><p>${esc(B.voiceLine||"Twelve leaders, one table, and the conversation you don't get to have at conferences.")}</p><span class="bkbtn">I'll be there</span></div><span class="note">Live preview of your invitation</span></div>`;
+  if(previewOnly&&$("#bkPrev",h)){ $("#bkPrev",h).outerHTML=prev; return }
+  const fontSel=(id,cur,file)=>`<select id="${id}">${[...FONT_CHOICES,...(file?[file.name]:[])].map(f=>`<option ${f===cur?"selected":""}>${esc(f)}</option>`).join("")}<option value="__upload">Upload a font file…</option></select>`;
+  h.innerHTML=`<div class="bkgrid"><div class="stack" style="gap:14px"><div><small class="eyebrow">Setup</small><h2 style="margin:2px 0 4px">Your brand kit</h2><p class="note">Every invitation, event page, cover and proposal uses it. Changes save as you go.</p></div>
+    <div class="row"><label class="f">Company<input id="bkCo" value="${esc(B.company||"")}" placeholder="Acme"></label><label class="f">Website<input id="bkUrl" value="${esc(B.url||"")}" placeholder="acme.com"></label></div>
+    <div class="bkrow"><span class="bklabel">Logo</span>${B.logo?`<img class="bklogo" src="${esc(B.logo)}" alt="Your logo">`:""}<label class="btn sm">${B.logo?"Replace":"Upload logo"}<input type="file" id="bkLogo" accept="image/*" hidden></label>${B.logo?`<button class="btn ghost sm" id="bkLogoX" type="button">Remove</button>`:""}</div>
+    <div class="bkrow"><span class="bklabel">Colors</span><label class="bkcol">Primary <input type="color" id="bkC1" value="${esc(C[0])}"><input class="mini" id="bkH1" value="${esc(C[0])}" aria-label="Primary hex"></label><label class="bkcol">Accent <input type="color" id="bkC2" value="${esc(C[1]||C[0])}"><input class="mini" id="bkH2" value="${esc(C[1]||C[0])}" aria-label="Accent hex"></label>
+      ${(B.palette||[]).length?`<span class="bksw">${B.palette.slice(0,8).map(x=>`<button type="button" class="sw" style="background:${esc(x)}" data-sw="${esc(x)}" title="Use ${esc(x)} as primary (Shift: accent)"></button>`).join("")}</span>`:""}</div>
+    <div class="row"><label class="f">Heading font${fontSel("bkF1",hf,B.fontFiles?.heading)}</label><label class="f">Body font${fontSel("bkF2",bf,B.fontFiles?.body)}</label><input type="file" id="bkFontFile" accept=".woff2,.woff,.ttf,.otf,font/*" hidden></div>
+    <div class="bkrow"><span class="bklabel">Brand guidelines</span><label class="btn sm">Upload guidelines<input type="file" id="bkGuide" accept="image/*,application/pdf" hidden></label><span class="note">${B.guidelines?`${esc(B.guidelines)} · `:""}Encore reads colors from images${sample?" and asks Claude for fonts and voice":""}.</span></div>
+    <label class="f">Your voice in one line<input id="bkVoice" value="${esc(B.voiceLine||"")}" placeholder="Warm, direct, no jargon. We write like a host, not a vendor."></label></div>
+    ${prev}</div>`;
+  const upd=(k,v)=>{ B[k]=v; bkChanged() };
+  $("#bkCo",h).oninput=e=>{ B.company=e.target.value; bkChanged() }; $("#bkUrl",h).onchange=e=>upd("url",e.target.value.trim()); $("#bkVoice",h).oninput=e=>{ B.voiceLine=e.target.value; bkChanged() };
+  const setC=(i,v)=>{ if(!/^#[0-9a-f]{6}$/i.test(v)) return; B.colors=[...(B.colors||C)]; B.colors[i]=v; $(i?"#bkC2":"#bkC1",h).value=v; $(i?"#bkH2":"#bkH1",h).value=v; bkChanged() };
+  $("#bkC1",h).oninput=e=>setC(0,e.target.value); $("#bkC2",h).oninput=e=>setC(1,e.target.value); $("#bkH1",h).onchange=e=>setC(0,e.target.value.trim()); $("#bkH2",h).onchange=e=>setC(1,e.target.value.trim());
+  $$("[data-sw]",h).forEach(b=>b.onclick=e=>setC(e.shiftKey?1:0,b.dataset.sw));
+  $("#bkLogo",h).onchange=e=>{ const f=e.target.files?.[0]; if(f){ readLogo(f); setTimeout(()=>{ drawBrandKit(); bkChanged() },400) } };
+  $("#bkLogoX",h)&&($("#bkLogoX",h).onclick=()=>{ delete B.logo; syncLogo(); drawBrandKit(); bkChanged() });
+  let fontTarget=null; const onFont=(i,e)=>{ if(e.target.value==="__upload"){ fontTarget=i; $("#bkFontFile",h).click(); e.target.value=i?bf:hf; return } B.fonts=[...(B.fonts||[hf,bf])]; B.fonts[i]=e.target.value; if(B.fontFiles&&B.fontFiles[i?"body":"heading"]?.name!==e.target.value) delete B.fontFiles[i?"body":"heading"]; bkChanged() };
+  $("#bkF1",h).onchange=e=>onFont(0,e); $("#bkF2",h).onchange=e=>onFont(1,e);
+  $("#bkFontFile",h).onchange=e=>{ const f=e.target.files?.[0]; if(!f) return; if(f.size>700*1024){ toast("That font file is over 700 KB. Use the .woff2 version."); return } const rd=new FileReader(); rd.onload=()=>{ const name=f.name.replace(/\.[^.]+$/,"").replace(/[-_]+/g," ").trim().slice(0,40)||"Brand font"; B.fontFiles={...(B.fontFiles||{}),[fontTarget?"body":"heading"]:{name,data:rd.result}}; B.fonts=[...(B.fonts||[hf,bf])]; B.fonts[fontTarget]=name; registerFontFile(B.fontFiles[fontTarget?"body":"heading"]); toast(`${name} added as your ${fontTarget?"body":"heading"} font.`); drawBrandKit(); bkChanged() }; rd.readAsDataURL(f) };
+  $("#bkGuide",h).onchange=async e=>{ const f=e.target.files?.[0]; if(!f) return; B.guidelines=f.name;
+    if(/^image\//.test(f.type)) paletteFrom(f,async(pal,dataUrl)=>{ B.palette=[...new Set([...pal,...(B.palette||[])])].slice(0,8); toast(`Found ${pal.length} colors in your guidelines. Tap a swatch to use it.`); drawBrandKit(); bkChanged();
+      if(sample){ try{ const lim=await sample.limits?.(); if(lim?.images){ const blob=await (await fetch(dataUrl)).blob(); const o=await sample.json(`This image is a page from a company's brand guidelines. Extract what's shown. Reply with only JSON: {"primary":"#hex or empty","accent":"#hex or empty","headingFont":"font family name or empty","bodyFont":"font family name or empty","voice":"the brand voice in one line, or empty"}`,{images:[blob],modelTier:"quick"});
+        const ok=x=>/^#[0-9a-f]{6}$/i.test(x||""); if(ok(o?.primary)||ok(o?.accent)) B.colors=[ok(o.primary)?o.primary:C[0],ok(o.accent)?o.accent:(C[1]||C[0])]; if(o?.headingFont||o?.bodyFont) B.fonts=[o.headingFont||hf,o.bodyFont||bf]; if(o?.voice&&!B.voiceLine) B.voiceLine=o.voice; toast("Read your guidelines: colors, fonts and voice applied. Check the preview."); drawBrandKit(); bkChanged() } }catch{} } });
+    else { toast(sample?"For a PDF, upload a screenshot of the color and type pages and Encore will read them.":"Saved the file name. For colors, upload a screenshot of the color page."); drawBrandKit(); bkChanged() } } }
 function readLogo(f){
   const rd=new FileReader(); rd.onload=()=>{ const img=new Image(); img.onload=()=>{
     const c=document.createElement("canvas"), k=Math.min(1,320/Math.max(img.width,img.height)); c.width=Math.max(1,img.width*k|0); c.height=Math.max(1,img.height*k|0);

diff --git a/public/landing.html b/public/landing.html
@@ -50,11 +50,12 @@ footer{padding:40px 0 60px;border-top:1px solid var(--line)}
 .final{background:var(--lilac);border-radius:28px;padding:44px;text-align:center;display:grid;gap:14px;justify-items:center}
 @media (max-width:900px){.hero .wrap,.split,.grid2{grid-template-columns:1fr}.grid3,.steps{grid-template-columns:1fr 1fr}.tpl{grid-template-columns:1fr 1fr}nav.links{display:none}}
 @media (max-width:560px){.grid3,.steps,.tpl{grid-template-columns:1fr}section{padding:52px 0}.final{padding:28px 18px}.hdr-cta .ghost{display:none}.shot .row{font-size:.86rem}}
+@media (max-width:760px){nav.links{display:flex!important}nav.links a:not(.signin){display:none}}
 </style></head>
 <body>
 <header class="top"><div class="wrap">
-  <a class="logo" href="/"><svg viewBox="0 0 44 32" width="34" height="25" aria-hidden="true"><circle cx="12" cy="18" r="11" fill="#C2553A"/><circle cx="30" cy="13" r="12" fill="#2B211C"/><circle cx="24" cy="25" r="6" fill="#E9C98C"/></svg>encore</a>
-  <nav class="links" aria-label="Sections"><a href="#how">How it works</a><a href="#measure">Measurement</a><a href="#conferences">Conferences</a><a href="#pricing">Pricing</a><a href="/login">Sign in</a></nav>
+  <a class="logo" href="/"><svg viewBox="0 0 32 32" width="26" height="26" aria-hidden="true"><circle cx="16" cy="16" r="14" fill="#B04A30"/><circle cx="20" cy="11" r="3.2" fill="#F3D9B8"/></svg>encore</a>
+  <nav class="links" aria-label="Sections"><a href="#how">How it works</a><a href="#measure">Measurement</a><a href="#conferences">Conferences</a><a href="#pricing">Pricing</a><a href="/login" class="signin">Sign in</a></nav>
   <div class="hdr-cta"><button class="btn ghost sm" type="button" data-contact="talk">Talk to the founders</button><a class="btn primary sm" href="/signup">Start free</a></div>
 </div></header>
 

diff --git a/server/app.js b/server/app.js
@@ -42,7 +42,7 @@ const shownToGuests = (g) => !!g?.optIn && (g.status === "Going" || g.status ===
 const WALL_FIELDS = ["eventId", "name", "title", "company", "status", "learn", "linkedin", "photo", "createdAt", "updatedAt"];
 // What any visitor may see of the brand profile: the visual identity and public voice, nothing internal
 // (budgets, target accounts, call notes, playbooks, knowledge, strategy...).
-export const PUBLIC_BRAND_FIELDS = ["name", "company", "logo", "colors", "palette", "fonts", "voice", "tone", "tagline", "oneLiner", "adjectives", "website"];
+export const PUBLIC_BRAND_FIELDS = ["name", "company", "logo", "colors", "palette", "fonts", "fontFiles", "voiceLine", "voice", "tone", "tagline", "oneLiner", "adjectives", "website"];
 export const publicBrand = (data) => Object.fromEntries(PUBLIC_BRAND_FIELDS.filter((k) => data?.[k] != null).map((k) => [k, data[k]]));
 // Values a guest may give their own RSVP / wall entry. ("no" and "requested" are what the RSVP page sends
 // for "Can't make it" and approval-required events.)
